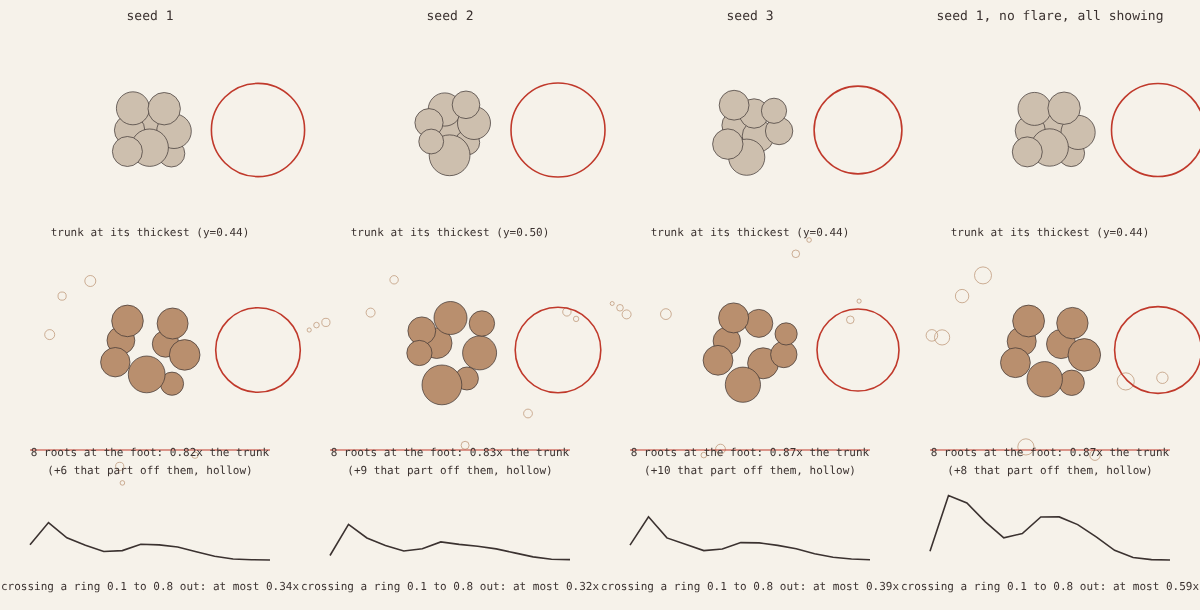
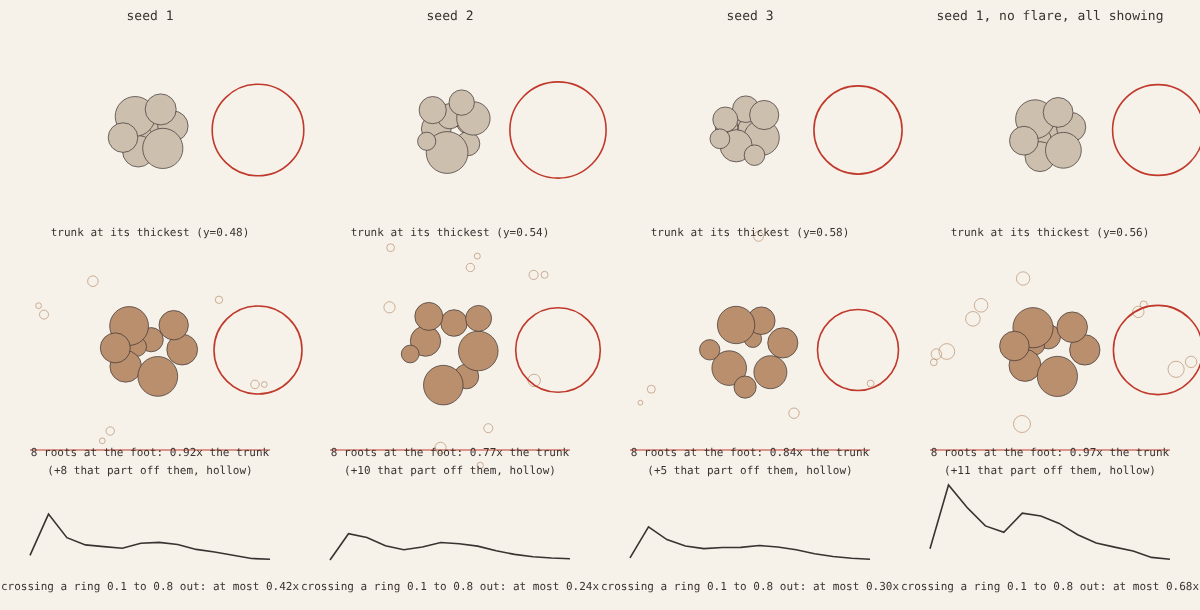
A skirt where the roots leave the trunk, legs that come down at their own angles, and ground that has been cut away to stand on
Claude-Session: https://claude.ai/code/session_0192rgp75jGkttZXf7hEakip

diff --git a/sketch/page7.js b/sketch/page7.js
@@ -71,26 +71,36 @@
       const fine = !!s.vine, ridge0 = 0.7 * (r() - 0.5); let kA = 0, kB = s.K - 1; if (fine && !s.thread) { while (kA < kB && s.rho[kA] < 0.02) kA++; while (kB > kA && s.rho[kB] < 0.02) kB--; if (kB - kA < 5) continue; }
       const K = kB + 1; let k = kA, first = true, backBy = 3;
       while (k < K - 1) {
-        const rho0 = s.rho[Math.min(K - 1, k + 2)], want = chain && !s.thread ? Math.max(7, Math.round((7 + 10 * r()) * Math.max(rho0, 0.02) / 0.035)) : K; let k1 = Math.min(K - 1, k + want); if (K - 1 - k1 < 6) k1 = K - 1;
+        const rho0 = s.rho[Math.min(K - 1, k + 2)]; let want = chain && !s.thread ? Math.max(7, Math.round((7 + 10 * r()) * Math.max(rho0, 0.02) / 0.035)) : K;
+        // a root is slender: at its girth a long piece is a smooth tube and none of the flat faces show
+        if (k < s.root && chain) want = Math.max(4, Math.round(want * 0.5)); let k1 = Math.min(K - 1, k + want); if (K - 1 - k1 < 6) k1 = K - 1;
         // a root that doubles back is drawn a run at a time: a piece ends at the turn, and does not lie across it
         let turned = false; if (k < s.root) { if (k1 > s.root) k1 = s.root;   // a piece never runs from root into trunk: they are different stuff, and tapered differently
           const sg = (j) => unit([0, 1, 2].map((c) => s.X[(j + 1) * 3 + c] - s.X[j * 3 + c])), d0 = sg(Math.min(K - 2, k + 1)); for (let j = k + 3; j < Math.min(k1, s.root); j++) if (dot(sg(j), d0) < 0.3) { k1 = j; turned = true; break; } }
         const k0 = first ? kA : Math.max(kA, k - backBy), n = k1 - k0, last = k1 === K - 1, wide = (fine ? 0.95 : 1.15) + 0.2 * r(), high = (fine ? 0.8 : 0.62) + 0.25 * r(), stiff = chain ? 0.55 + 0.35 * r() : 0, proud = chain ? 0.1 + 0.25 * r() : 0, massW = 1.55 + 0.4 * r(), e = r(), ending = last ? 'own' : turned ? 'turn' : e < 0.4 ? 'point' : e < 0.75 ? 'blunt' : 'step';
         const A = at(s, k0), B = at(s, k1), C = [], O = [], W = [], Hh = [], D = [];
         for (let i = k0; i <= k1; i++) { const q = (i - k0) / n, base = at(s, i), rho = s.rho[i], off = [0, 1, 2].map((j) => A[j] + (B[j] - A[j]) * q - base[j]), far = H(off[0], off[1], off[2]) || 1e-9, stay = Math.min(stiff, 0.35 * rho / far);
-          const no = nearOrb(base), tornHere = s.gap && s.inner && s.inner[i] ? Math.min(1, s.gap[i] / (1.2 * rho)) : 0, alone = 1 - sstep(0.9, 2.0, s.far[i] / rho), free = s.thread ? 1 : Math.max(no, tornHere, alone, 1 - sstep(s.root, s.root + 8, i)), body = mass * (1 - free),   // a strand running alone is a limb, not part of a mass
+          const no = nearOrb(base), tornHere = s.gap && s.inner && s.inner[i] ? Math.min(1, s.gap[i] / (1.2 * rho)) : 0, alone = 1 - sstep(0.9, 2.0, s.far[i] / rho), free = s.thread ? 1 : Math.max(no, tornHere, alone, s.rootOf >= 0 ? 1 : 1 - sstep(s.root - 7, s.root - 2, i)),   // the flare is still the body, and a root leaves it: mass runs down into a root's first steps and is gone a little further out
+           body = mass * (1 - free),   // a strand running alone is a limb, not part of a mass
           toMid = body > 0.01 ? Math.max(0.95 * rho, meet(base, [-s.O[i][0], -s.O[i][1], -s.O[i][2]], rho, si, Math.min(s.far[i] * 0.9, (s.limb >= 0 ? 1.5 : 3.2) * rho))) : 0.95 * rho;   // a limb is thin: reaching for its middle must not come out of its other side
           // (so does a strand that divided off another, where it comes out of it)
           // (a torn part leaves and rejoins what it tore from from underneath: laid level with it there, the two surfaces run through each other and come out pitted)
           const lift = (first ? (fine || s.stem >= 0 ? -0.9 * (1 - sstep(0, 0.35, q)) : 0) : -0.28 * (1 - sstep(0, 0.3, q))) + proud * q * q - ((fine || s.rootOf >= 0) && last ? 0.9 * sstep(0.65, 1, q) : 0), front = ending === 'point' ? Math.pow(Math.min(1, (1 - q) / 0.3), 0.7) : 1, back = first && !(s.stem >= 0) ? 1 : 0.7 + 0.3 * sstep(0, 0.3, q), w = Math.min(wide, 1.05 + (wide - 1.05) * (1 - no)) + body * (massW - 1.05);
           let deepHere = rho * 0.95 + body * (toMid - rho * 0.95); for (const o of rooms) deepHere = Math.max(rho * 0.5, Math.min(deepHere, away(o, base[0], base[1], base[2]) - o.room - 0.01));
           let wCap = 9; for (const o of rooms) if (!o.orb) wCap = Math.min(wCap, Math.max(0.6 * rho, away(o, base[0], base[1], base[2]) - o.room));   // nor is it drawn so wide that its edge stands in a hollow   // never into an orb's room
-          const eg = ease[si].g[i], en = ease[si].dir[i], inn = s.inner && s.gap && s.gap[i] > 0 ? s.inner[i] : null, sv = eg || inn ? unit(cross(tan(s, i), s.O[i])) : null, gu = eg ? eg * dot(en, sv) : 0, gv = eg ? eg * dot(en, s.O[i]) : 0;   // the elbow's fill, across the strand and through it
+          const eg = ease[si].g[i], en = ease[si].dir[i], inn = s.inner && s.gap && s.gap[i] > 0 ? s.inner[i] : null, sv = eg || inn || (s.rootOf < 0 && i < s.root) ? unit(cross(tan(s, i), s.O[i])) : null, gu = eg ? eg * dot(en, sv) : 0, gv = eg ? eg * dot(en, s.O[i]) : 0;   // the elbow's fill, across the strand and through it
           // a tear's lip: toward what it tore from, a part reaches a quarter of the way across the gap, so that
           // where the gap is narrow the two lips all but meet (a web with a slit), and where it is wide they stand apart
           let lipU = 0; if (inn) { const sg = dot(inn, sv); if (Math.abs(sg) > 0.4) lipU = Math.sign(sg) * roomToward(base, sv.map((v) => v * Math.sign(sg)), Math.min(0.25 * s.gap[i], 1.0 * rho), rho, si, s.fam); }
           const home = fine && !s.thread && s.inner && s.inner[i] ? (first ? 1 - sstep(0, 0.35, q) : 0) + (last ? sstep(0.65, 1, q) : 0) : 0, hm = home ? home * (s.gap[i] + 0.6 * rho) : 0;   // its two ends bend back into what it tore from, so that it is never left hanging
-          C.push([0, 1, 2].map((j) => base[j] + off[j] * stay + s.O[i][j] * rho * lift + (sv ? sv[j] * (gu + lipU) / 2 : 0) + (hm ? s.inner[i][j] * hm : 0))); O.push(s.O[i]); W.push(Math.max(0.006, Math.min(wCap, rho * w * front * back + (Math.abs(gu) + Math.abs(lipU)) / 2))); Hh.push(rho * high * (0.6 + 0.4 * front) + Math.max(0, gv) * 0.5); D.push(deepHere + Math.max(0, -gv)); }
+          // The skirt. Where a root leaves the trunk it is not a cord but part of a cone: over its first few steps
+          // it is wide enough to meet the legs either side of it, so the foot is one flaring body that divides
+          // lower down, as a tree's is. A step or two out it is its own girth again.
+          let skirt = 0;
+          if (sv && s.rootOf < 0 && i < s.root) { const near = sstep(s.root - 10, s.root - 1, i);
+            if (near > 0.02) { const lft = meet(base, sv, rho, si, 3.5 * rho), rgt = meet(base, [-sv[0], -sv[1], -sv[2]], rho, si, 3.5 * rho);
+              skirt = near * Math.max(0, Math.min(lft, rgt) - 0.95 * rho); } }
+          C.push([0, 1, 2].map((j) => base[j] + off[j] * stay + s.O[i][j] * rho * lift + (sv ? sv[j] * (gu + lipU) / 2 : 0) + (hm ? s.inner[i][j] * hm : 0))); O.push(s.O[i]); W.push(Math.max(0.006, Math.min(wCap, rho * w * front * back + (Math.abs(gu) + Math.abs(lipU)) / 2 + skirt))); Hh.push(rho * high * (0.6 + 0.4 * front) + Math.max(0, gv) * 0.5); D.push(deepHere + Math.max(0, -gv)); }
         const w1 = W[W.length - 1], end = ending === 'own' ? (s.snapped ? { skew: (r() < 0.5 ? -1 : 1) * (1.8 + 1.4 * r()), step: r() < 0.5 ? { u: 0.5 * (r() - 0.5), side: r() < 0.5 ? -1 : 1, a: w1 * (0.8 + 1.4 * r()) } : null } : { skew: 0 })
           : ending === 'turn' ? { skew: 0.6 * (r() - 0.5) } : ending === 'step' ? { skew: (r() < 0.5 ? -1 : 1) * (1.8 + 1.2 * r()), step: { u: 0.5 * (r() - 0.5), side: r() < 0.5 ? -1 : 1, a: w1 * (0.9 + 1.2 * r()) } } : ending === 'blunt' ? { skew: (r() < 0.5 ? -1 : 1) * (1.8 + 1.4 * r()) } : { skew: 0 };
         // The next piece starts under this one's front, as far back as the front is cut away: a point takes the last

diff --git a/trees.js b/trees.js
@@ -59,6 +59,7 @@
     // Going down a face or through the air counts little toward its length, so a root that leaves the level it
     // began on runs on until it has ground under it again.
     const walk = G ? (p0, away, rho0, len, dives, collar) => { const rb2 = r, rx = [], rr = [], c0 = G(p0[0], p0[1], p0[2]), most = Math.round(len / ds) * 5, kmax = ds / (2.6 * Math.max(0.025, rho0)), wob = TAU * r(), wl = 0.25 + 0.3 * r();
+      const steepness = 0.55 + 0.9 * r();   // no two legs come down alike: one drops, the next runs out shallow
       let pos = p0, h = away, prog = 0, curl = 0, air = 0, gone = 0;
       // A root does not taper away along its length: it keeps its weight between forks and steps down at each,
       // which is where nearly all of its thinning happens. Along a run it loses only `waste`. What it does at the
@@ -66,7 +67,7 @@
       // `flare`, under half a trunk's width. (A long smooth cone from trunk to tip is a carrot, not a root.)
       const girth = (g, far) => rho0 * (collar ? P.grip * (1 + (P.collar - 1) * Math.pow(Math.max(0, 1 - far / P.flare), 1.6)) : 1) * (1 - P.waste * g) * (dives ? 1 : Math.pow(Math.min(1, (1 - g) / 0.22), 0.7) * 0.9 + 0.1);
       const room = (pr, own) => { if (Math.abs(pr[0]) > 0.97 || Math.abs(pr[2]) > 0.97) return 0; let near = 0.22; for (const q of rootPts) near = Math.min(near, H(pr[0] - q[0], pr[1] - q[1], pr[2] - q[2])); for (let e = 0; e < own; e++) near = Math.min(near, H(pr[0] - rx[e][0], pr[1] - rx[e][1], pr[2] - rx[e][2])); return near; };
-      for (let m = 1; m <= most && prog < len; m++) { const g = Math.min(1, prog / len), rad = girth(g, gone), nn = gradG(pos[0], pos[1], pos[2]), hug = rad * (0.4 + 0.22 * Math.sin(wob + TAU * gone / wl)), want = c0 + (hug - c0) * sstep(0, P.dive + P.slant * Math.max(0, c0), gone) - (dives ? 0.3 * sstep(0.72, 1, g) : 0);
+      for (let m = 1; m <= most && prog < len; m++) { const g = Math.min(1, prog / len), rad = girth(g, gone), nn = gradG(pos[0], pos[1], pos[2]), hug = rad * (0.4 + 0.22 * Math.sin(wob + TAU * gone / wl)), want = c0 + (hug - c0) * sstep(0, P.dive + P.slant * steepness * Math.max(0, c0), gone) - (dives ? 0.3 * sstep(0.72, 1, g) : 0);
         let tt = h.map((v, k) => v - nn[k] * dot(h, nn)); const dn = UP.map((v, k) => -(v - nn[k] * nn[1])), dl = H(dn[0], dn[1], dn[2]); if (H(tt[0], tt[1], tt[2]) < 0.2) tt = dl > 1e-6 ? dn : cross(nn, [1, 0, 0]); tt = unit(tt);
         curl = Math.max(-kmax, Math.min(kmax, curl * 0.9 + P.snake * 0.34 * kmax * (2 * r() - 1))); { const sd = cross(nn, tt); tt = unit(tt.map((v, k) => v * Math.cos(curl) + sd[k] * Math.sin(curl))); }
         const side = cross(nn, tt), out = unit([pos[0] - trunk[0][0], 0, pos[2] - trunk[0][2]]); let best = null;   // (out: away from the foot. A root goes somewhere; it does not come back under the tree.)

diff --git a/sketch/page11.js b/sketch/page11.js
@@ -13,11 +13,16 @@
   const rock = (c, R, seed, squash = [1, 1, 1]) => { const r = rng(seed), P = []; for (let i = 0; i < 12; i++) { const y = 1 - 2 * (i + 0.5) / 12, rad = Math.sqrt(1 - y * y), a = i * 2.39996 + 6.28 * r(), u = unit([rad * Math.cos(a) + 0.5 * (r() - 0.5), y + 0.5 * (r() - 0.5), rad * Math.sin(a) + 0.5 * (r() - 0.5)]); P.push([u[0] / squash[0], u[1] / squash[1], u[2] / squash[2], R * (0.72 + 0.28 * r())]); }
     return (x, y, z) => { let d = -9; for (const p of P) d = Math.max(d, (p[0] * (x - c[0]) + p[1] * (y - c[1]) + p[2] * (z - c[2])) / H(p[0], p[1], p[2]) - p[3] / H(p[0], p[1], p[2]) * 1); return d; }; };
   const both = (a, b) => (x, y, z) => Math.max(a(x, y, z), b(x, y, z)), all = (...fs) => (x, y, z) => { let d = 9; for (const f of fs) d = Math.min(d, f(x, y, z)); return d; };
+  // cut(ground, shape): what is left of the ground once that shape has been taken out of it. A hollow scooped
+  // under a tree is the soil it sprouted in, gone; the tree is left standing on what its roots had reached.
+  const cut = (a, b) => (x, y, z) => Math.max(a(x, y, z), -b(x, y, z));
+  const bowl = (c, R, squash = [1, 1, 1]) => (x, y, z) => H((x - c[0]) / squash[0], (y - c[1]) / squash[1], (z - c[2]) / squash[2]) - R;
   const SITES = [
     ['on a slope', all(under([0.38, 1, 0.1], [0, 0.42, 0]), rock([0.42, 0.3, 0.3], 0.24, 3), rock([-0.5, 0.62, -0.35], 0.2, 5)), [0, 0], 1],
     ['at a cliff edge', all(both(under([0, 1, 0.05], [0, 0.62, 0]), under([1, 0.18, 0], [0.14, 0.3, 0])), under([-0.08, 1, 0], [0, 0.07, 0]), rock([0.55, 0.1, -0.4], 0.2, 7)), [-0.06, 0], 2],
     ['on a boulder', all(under([0.05, 1, -0.05], [0, 0.1, 0]), rock([0, 0.32, 0], 0.4, 11, [1.1, 0.85, 1])), [0.03, 0.02], 3],
     ['in a cleft', all(under([0, 1, 0.06], [0, 0.08, 0]), rock([-0.5, 0.3, 0.02], 0.36, 13, [1, 1.1, 1.2]), rock([0.5, 0.28, -0.04], 0.36, 17, [1, 1.05, 1.2])), [0, 0], 4],
+    ['on a bank the rain has cut away', cut(all(under([0.1, 1, 0.3], [0, 0.46, 0]), rock([0.55, 0.12, -0.5], 0.18, 19)), bowl([0.2, 0.18, 0.34], 0.52, [1, 0.75, 1])), [-0.1, -0.06], 6],
   ];
   const quick = typeof location !== 'undefined' ? +new URLSearchParams(location.search).get('h') : 0;   // ?h=0.013 for a quick look
   const S = SITES.map(([name, ground, site, seed]) => [name, tree(Object.assign({ seed }, Trees.sprout({ seed, strands: 14, feet: 6, foot: 0.16, tall: 0.8, reach: 0.85, twig: 0.2, ground, site, roots: 0.65 })))]);

diff --git a/runs/021-girth/lint.js b/runs/021-girth/lint.js
@@ -1,0 +1,13 @@
+// a comment put at the end of a line that still has code after it silently deletes that code.
+// This has broken the build five times. Check for it before every render.
+const fs = require('fs');
+let bad = 0;
+for (const f of ['trees.js', 'sketch/page5.js', 'sketch/page7.js', 'sketch/page9.js', 'sketch/page11.js']) {
+  fs.readFileSync('/home/user/synthetic-botany/' + f, 'utf8').split('\n').forEach((line, i) => {
+    const m = line.indexOf('//'); if (m < 0) return;
+    // a comment is fine at the start of a line, or at the end of a complete statement
+    const before = line.slice(0, m).trim(); if (!before) return;
+    if (/[;{},]$/.test(before)) return;
+    console.log(f + ':' + (i + 1) + ' comment after unfinished code: ' + before.slice(-60)); bad++; });
+}
+process.exit(bad ? 1 : 0);

diff --git a/LOG.md b/LOG.md
@@ -3308,3 +3308,57 @@ Wrong, or not there:
 - Nothing has sagged. The tree is perched because it is told to be, not
   because anything was taken from under it.
 - The legs still arch in much the same way as each other.
+
+## A skirt, legs that differ, and a reason to be perched
+
+Kept going on my own list rather than coming back: the foot had no skirt,
+the legs all arched alike, and the tree was perched because it was told
+to be.
+
+**The skirt.** Where a root leaves the trunk it is not a cord but part of
+a cone. Over its first ten steps a root is now drawn wide enough to meet
+the legs either side of it (how far that is, found the same way the mass
+rule finds its neighbour), and a step or two out it is its own girth
+again. So the foot is one flaring body that divides lower down, as the
+bank photograph's is.
+
+First try, which did not work and is worth writing down: I let the trunk's
+mass rule run down into the root's first steps, expecting it to fill
+between the legs. It filled downward instead. The mass rule reaches along
+the way a strand faces away from its own bundle, and a root on the ground
+faces up, so "toward the middle" is into the soil. It had to be done
+across the root, not under it.
+
+**The legs.** Each comes down at its own steepness now (0.55 to 1.45 of
+`slant`), so one drops and the next runs out shallow.
+
+**The surface.** A root's drawn pieces are half as long as a trunk's. At a
+root's girth the old length was eight times the width, which is a smooth
+tube with no flat faces on it.
+
+**The reason.** The perch had no cause: the tree stood high because a
+number said so. Page 11 has a fifth site, `on a bank the rain has cut
+away`: the ground is a slope with a hollow taken out of it under the
+tree. The ground vocabulary gained `cut(ground, shape)` — what is left of
+the ground once that shape has been taken out — which is the first thing
+in this work that takes something away rather than adding it. The tree
+stands on the lip with its roots reaching over the cut.
+
+      roots crossing a ring, at most   0.24 to 0.42 of the trunk
+
+`sketch/page9.png`, `-foot`, `-from-above`; `sketch/page11.png`,
+`-other-side`, `-foot` (five sites). Withdrawn:
+`sketch/page9-foot-no-skirt-withdrawn.png`. Page 7 unchanged.
+
+A note on method. Putting a comment at the end of a line that still has
+code after it has silently deleted that code five times in this work, and
+cost a render each time (three minutes, and once a whole wrong reading of
+a picture). There is now a check for it, `runs/021-girth/lint.js`, run
+before each render.
+
+Wrong, or not there:
+- The hollow on the bank is a clean round bowl. It reads as a crater, not
+  as something water did.
+- The skirt webs between legs that are far apart on one of the four,
+  where it should have given up and left them separate.
+- A root still ends where its length runs out.
